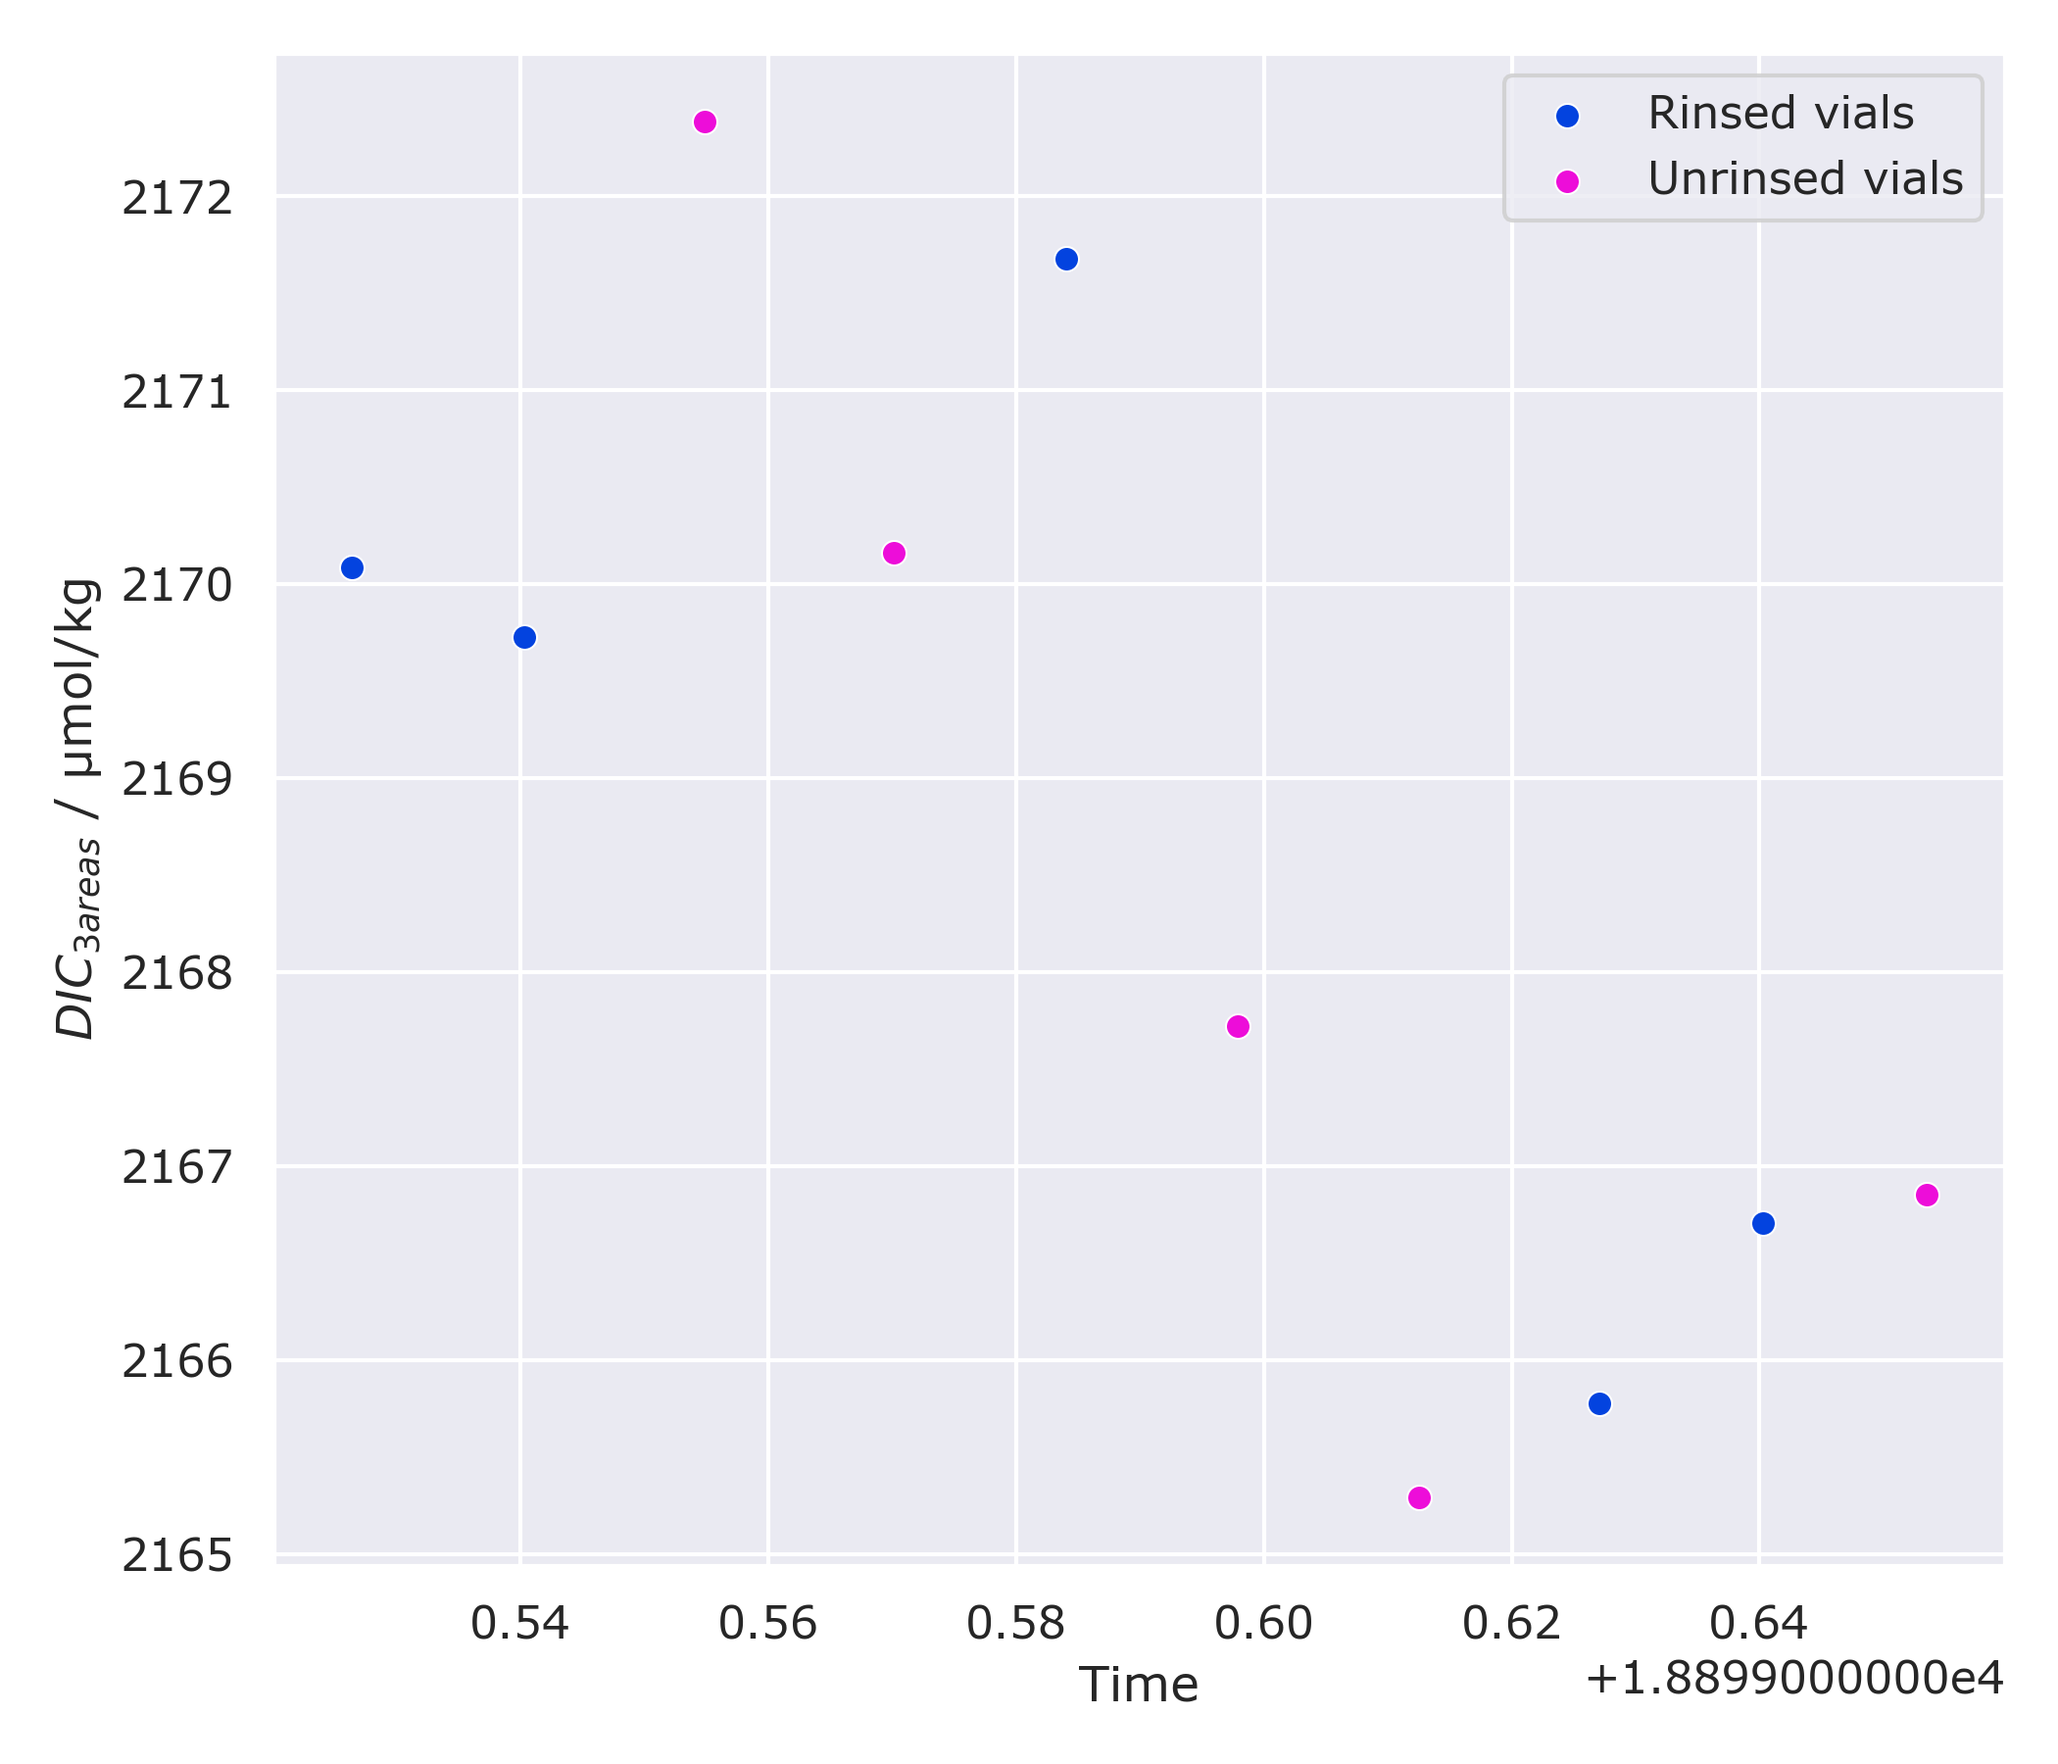
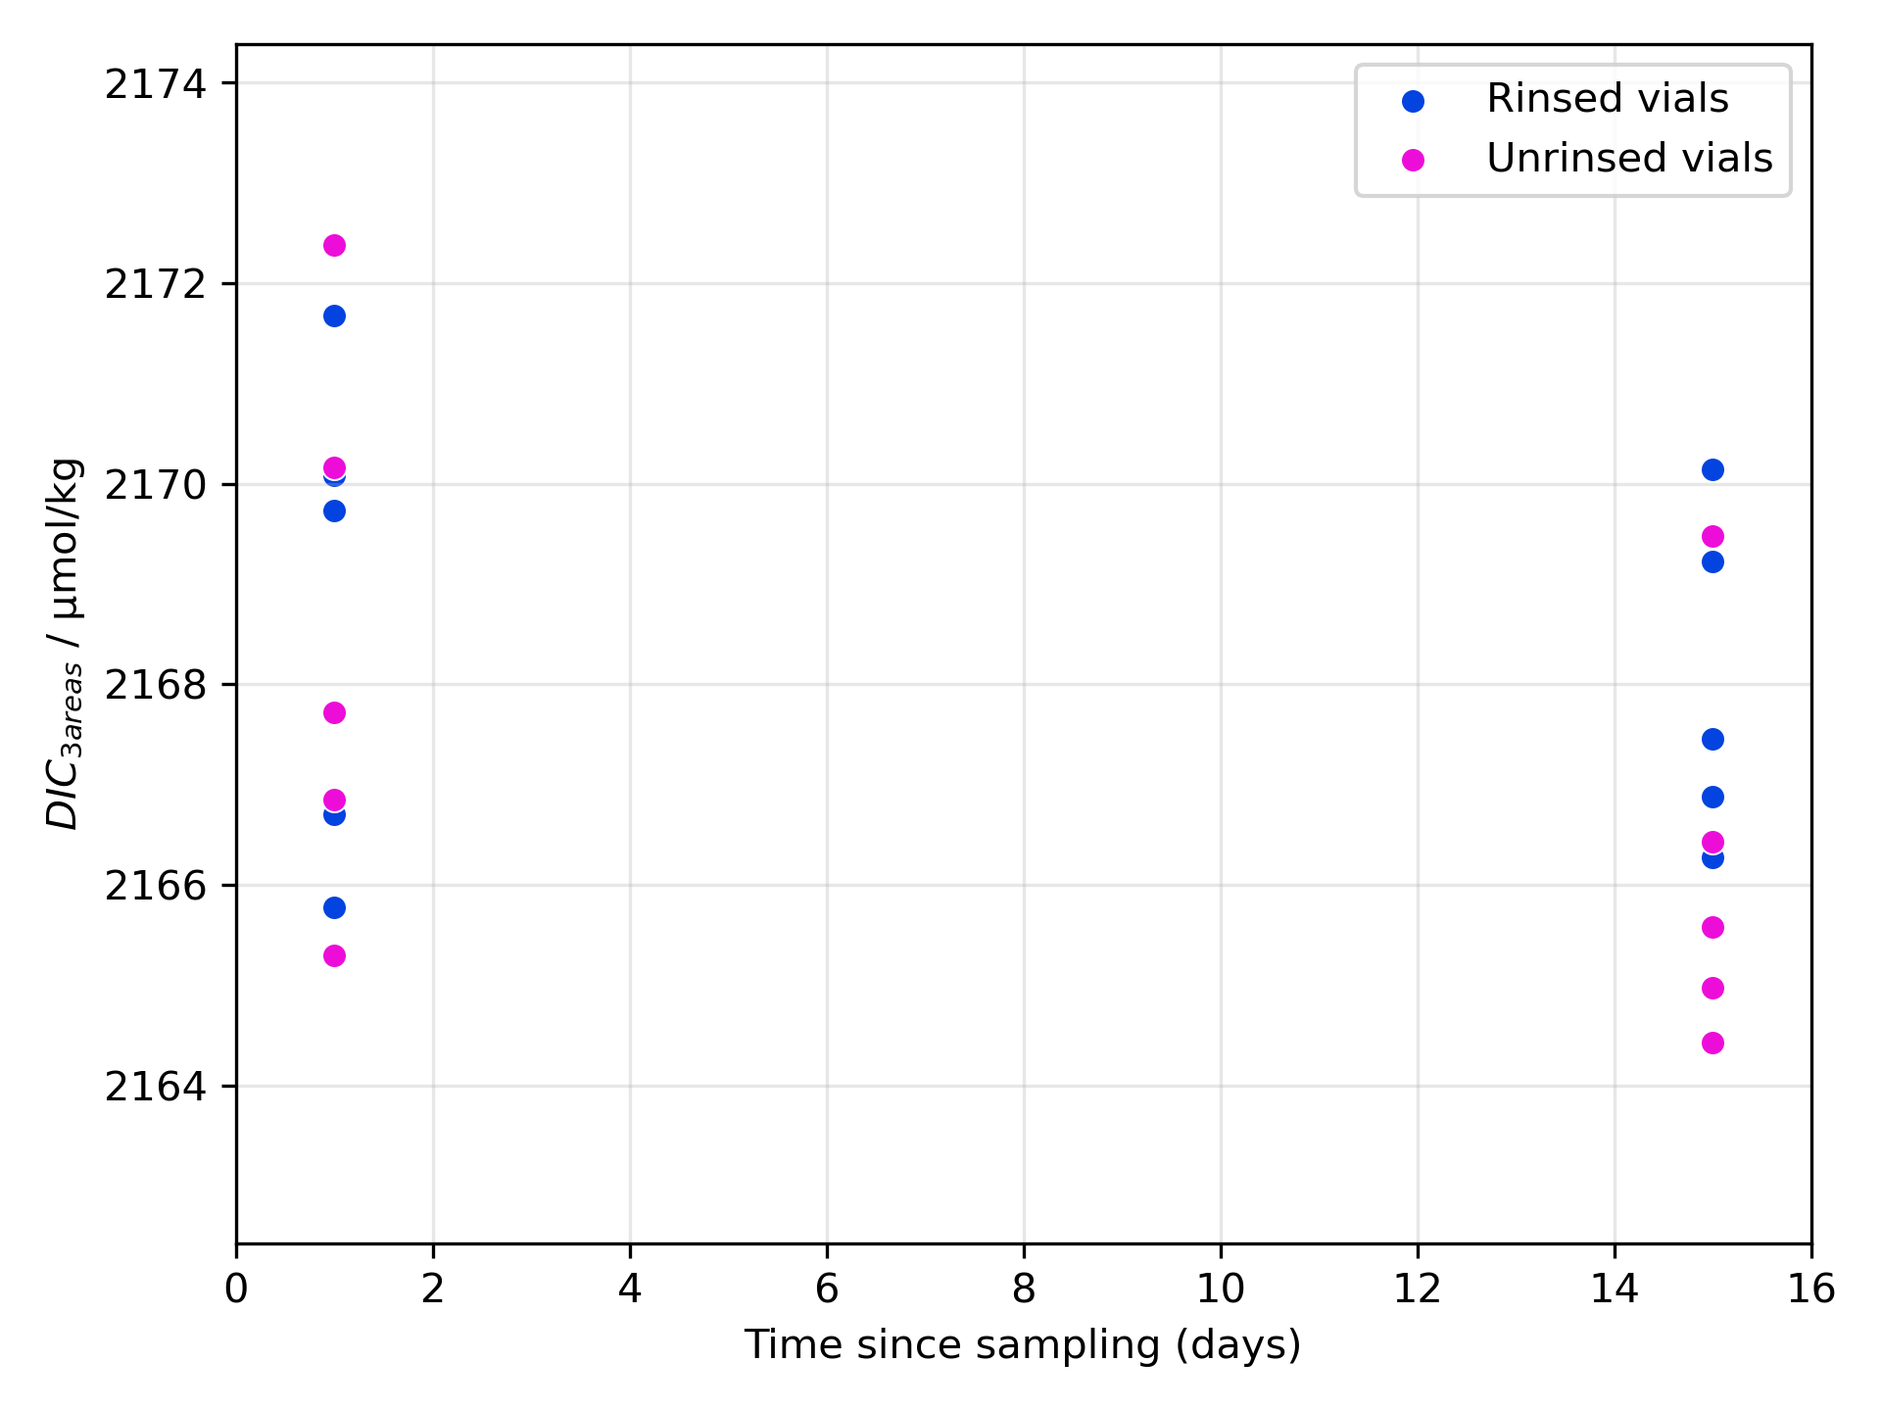
processed new dic data

diff --git a/airica/storage_test_process.py b/airica/storage_test_process.py
@@ -1,59 +1,96 @@
-import pandas as pd
-from fx_airica import process_airica
+import pandas as pd, numpy as np
+from fx_airica_koolstof import process_airica
 from scipy import stats
 import seaborn as sns
 from matplotlib import pyplot as plt
 
 # Import lab file
-db = pd.read_excel('./data/LD_storage_test/AIRICA_storage_test.xlsx',
+db = pd.read_excel('./data/LD_storage_test/AIRICA_storage_test_mod.xlsx',
                    na_values=-9999)
 
-# Only keep flag = 2
-L = db['flag'] == 2
-db = db[L]
+# Remove nan
+L = db['DIC'].isnull()
+db = db[~L]
 
 # Process AIRICA data
 results = process_airica(2009.48, 
                          db,
-                         './data/LD_storage_test/LD_storage_test.dbs',
+                         './data/LD_storage_test/LD_storage_test_mod.dbs',
                          './data/LD_storage_test/results_storage_test.csv'
                     )
 
 # === STATISTICS
-# Statistics on replicates
+# Statistics on all replicates
 L = results['name'].str.startswith(('R', 'U'))
-replicates = results[L]
-
-# Print standard error of the mean
-variable = 'TCO2_3'
-SE = stats.mstats.sem(replicates[variable], axis=None, ddof=0)
+SE = stats.mstats.sem(results['TCO2_3'][L], axis=None, ddof=0)
 print('Standard error of measurement for all replicates = {}'.format(SE))
 
-# Print standard error of the mean for R and U
-L = replicates['name'].str.startswith('R')
-rinsed = replicates[L]
-L = replicates['name'].str.startswith('U')
-unrinsed = replicates[L]
 
-SE_R = stats.mstats.sem(rinsed[variable], axis=None, ddof=0)
-print('Standard error of measurement for rinsed replicates = {}'.format(SE_R))
+# Create table to hold statistics for each analysis batch
+batches = list(results['analysis_batch'].unique())
+statistics = pd.DataFrame({"batch_number":batches})
+statistics['analysis_date'] = np.nan
+statistics['n_samples'] = np.nan
+statistics['mean_all'] = np.nan
+statistics['median_all'] = np.nan
+statistics['standard_error_batch'] = np.nan
+statistics['standard_error_all_batches'] = np.nan
+statistics['mean_R'] = np.nan
+statistics['median_R'] = np.nan
+statistics['standard_error_batch_R'] = np.nan
+statistics['standard_error_all_batches_R'] = np.nan
+statistics['mean_U'] = np.nan
+statistics['median_U'] = np.nan
+statistics['standard_error_batch_U'] = np.nan
+statistics['standard_error_all_batches_U'] = np.nan
 
-SE_U = stats.mstats.sem(unrinsed[variable], axis=None, ddof=0)
-print('Standard error of measurement for unrinsed replicates = {}'.format(SE_U))
+for batch in batches:
+    # Compute overall statistics
+    L = ((results['name'].str.startswith(('R', 'U'))) 
+         & (results['TCO2_3'].notnull())
+         & (results['analysis_batch']==batch))
+    statistics.loc[statistics['batch_number']==batch, 'analysis_date'] = results['datetime'][L].dt.date.iloc[0]
+    statistics.loc[statistics['batch_number']==batch, 'n_samples'] = results['TCO2_3'][L].count()
+    statistics.loc[statistics['batch_number']==batch, 'mean_all'] = results['TCO2_3'][L].mean()
+    statistics.loc[statistics['batch_number']==batch, 'median_all'] = results['TCO2_3'][L].median()
+    statistics.loc[statistics['batch_number']==batch, 'standard_error_batch'] = stats.mstats.sem(results['TCO2_3'][L], axis=None, ddof=0)
+    L = (results['name'].str.startswith(('R', 'U'))) & (results['TCO2_3'].notnull())
+    statistics.loc[statistics['batch_number']==batch, 'standard_error_all_batches'] = stats.mstats.sem(results['TCO2_3'][L], axis=None, ddof=0)
+    
+    # Compute statistics for R vs. U
+    # R
+    L = ((results['name'].str.startswith('R')) 
+         & (results['TCO2_3'].notnull())
+         & (results['analysis_batch']==batch))
+    statistics.loc[statistics['batch_number']==batch, 'mean_R'] = results['TCO2_3'][L].mean()
+    statistics.loc[statistics['batch_number']==batch, 'median_R'] = results['TCO2_3'][L].median()
+    statistics.loc[statistics['batch_number']==batch, 'standard_error_batch_R'] = stats.mstats.sem(results['TCO2_3'][L], axis=None, ddof=0)
+    L = (results['name'].str.startswith(('R'))) & (results['TCO2_3'].notnull())
+    statistics.loc[statistics['batch_number']==batch, 'standard_error_all_batches_R'] = stats.mstats.sem(results['TCO2_3'][L], axis=None, ddof=0)
+    
+    # U
+    L = ((results['name'].str.startswith('U')) 
+    & (results['TCO2_3'].notnull())
+    & (results['analysis_batch']==batch))
+    statistics.loc[statistics['batch_number']==batch, 'mean_U'] = results['TCO2_3'][L].mean()
+    statistics.loc[statistics['batch_number']==batch, 'median_U'] = results['TCO2_3'][L].median()
+    statistics.loc[statistics['batch_number']==batch, 'standard_error_batch_U'] = stats.mstats.sem(results['TCO2_3'][L], axis=None, ddof=0)
+    L = (results['name'].str.startswith(('U'))) & (results['TCO2_3'].notnull())
+    statistics.loc[statistics['batch_number']==batch, 'standard_error_all_batches_U'] = stats.mstats.sem(results['TCO2_3'][L], axis=None, ddof=0)
+
+# === TIME SINCE SAMPLING COLUMN
+results['time_since_sampling'] = np.nan
+start_date = pd.to_datetime('2021-09-28', format='%Y-%m-%d')
+results['time_since_sampling'] = (results['datetime'] - start_date).dt.days
 
 # === PLOT 4 AREAS
-# Prepare figure
-sns.set_style('darkgrid')
-sns.set_context('paper', font_scale=1)
-sns.set(font='Verdana', font_scale=1)
-
 # Create figure
-fig, ax = plt.subplots(dpi=300, figsize=(7, 6))
+fig, ax = plt.subplots(dpi=300)
 
 # Scatter rinsed samples in dark blue
 L = results['name'].str.startswith('R')
 sns.scatterplot(y='TCO2_4',
-                 x='datenum',
+                 x='time_since_sampling',
                  data=results[L],
                  color='xkcd:blue',
                  label='Rinsed vials',
@@ -64,7 +101,7 @@ sns.scatterplot(y='TCO2_4',
 # Scatter unrinsed samples in light blue
 L = results['name'].str.startswith('U')
 sns.scatterplot(y='TCO2_4',
-                 x='datenum',
+                 x='time_since_sampling',
                  data=results[L],
                  color='xkcd:fuchsia',
                  label='Unrinsed vials',
@@ -73,27 +110,31 @@ sns.scatterplot(y='TCO2_4',
                 )
 
 # Improve figure
-ax.set_ylabel('$DIC_{4 areas}$ / μmol/kg')
-ax.set_xlabel('Time')
+ymin = results['TCO2_4'][L].min() - 2
+ymax = results['TCO2_4'][L].max() + 2
+xmin = results['time_since_sampling'].min() - 1
+xmax = results['time_since_sampling'].max() + 1
+plt.xlim([xmin, xmax])
+plt.ylim([ymin, ymax])
 
+
+ax.set_ylabel('$DIC_{4 areas}$ / μmol/kg')
+ax.set_xlabel('Time since sampling (days)')
+
+ax.grid(alpha=0.3)
 plt.tight_layout()
 
 # Save plot
 plt.savefig('./figures/storage_test_DIC_4areas.png')
 
 # === PLOT 3 AREAS
-# Prepare figure
-sns.set_style('darkgrid')
-sns.set_context('paper', font_scale=1)
-sns.set(font='Verdana', font_scale=1)
-
 # Create figure
-fig, ax = plt.subplots(dpi=300, figsize=(7, 6))
+fig, ax = plt.subplots(dpi=300)
 
 # Scatter rinsed samples in dark blue
 L = results['name'].str.startswith('R')
 sns.scatterplot(y='TCO2_3',
-                 x='datenum',
+                 x='time_since_sampling',
                  data=results[L],
                  color='xkcd:blue',
                  label='Rinsed vials',
@@ -104,7 +145,7 @@ sns.scatterplot(y='TCO2_3',
 # Scatter unrinsed samples in light blue
 L = results['name'].str.startswith('U')
 sns.scatterplot(y='TCO2_3',
-                 x='datenum',
+                 x='time_since_sampling',
                  data=results[L],
                  color='xkcd:fuchsia',
                  label='Unrinsed vials', 
@@ -113,10 +154,17 @@ sns.scatterplot(y='TCO2_3',
                 )
 
 # Improve figure
-plt.legend()
-ax.set_ylabel('$DIC_{3 areas}$ / μmol/kg')
-ax.set_xlabel('Time')
+ymin = results['TCO2_3'][L].min() - 2
+ymax = results['TCO2_3'][L].max() + 2
+xmin = results['time_since_sampling'].min() - 1
+xmax = results['time_since_sampling'].max() + 1
+plt.xlim([xmin, xmax])
+plt.ylim([ymin, ymax])
 
+ax.set_ylabel('$DIC_{3 areas}$ / μmol/kg')
+ax.set_xlabel('Time since sampling (days)')
+
+ax.grid(alpha=0.3)
 plt.tight_layout()
 
 # Save plot

diff --git a/airica/fx_airica_koolstof.py b/airica/fx_airica_koolstof.py
@@ -1,0 +1,170 @@
+"""Import and parse the data files produced by the Marianda AIRICA."""
+
+import pandas as pd
+import numpy as np
+from matplotlib import dates as mdates
+from scipy import stats
+import seaborn as sns
+from calkulate.density import seawater_1atm_MP81
+import matplotlib.pyplot as plt
+
+
+# Extract data from dbs
+mapper_dbs = {
+    "run type": "run_type",
+    "i.s. temp.": "temperature_insitu",
+    "sample mass": "mass_sample",
+    "rep#": "rep",
+    "CT": "dic",
+    "factor CT": "dic_factor",
+    "CV (µmol)": "cv_micromol",
+    "CV (%)": "cv_percent",
+    "last CRM CT": "lastcrm_dic_measured",
+    "cert. CRM CT": "lastcrm_dic_certified",
+    "CRM batch": "lastcrm_batch",
+    "calc. mode": "mode_calculation",
+    "integ. mode": "mode_integration",
+    "Lat.": "latitude",
+    "Long.": "longitude",
+    "area#1": "area_1",
+    "area#2": "area_2",
+    "area#3": "area_3",
+    "area#4": "area_4",
+}
+
+
+def read_dbs(filepath_or_buffer, encoding="unicode_escape", na_values="none", **kwargs):
+    """Import the dbs file generated by a Marianda AIRICA as a pandas DataFrame.
+    All kwargs are passed to pandas.read_table.
+    """
+    dbs = pd.read_table(
+        filepath_or_buffer, encoding=encoding, na_values=na_values, **kwargs
+    )
+    dbs.rename(mapper=mapper_dbs, axis=1, inplace=True)
+    if "Unnamed: 32" in dbs:
+        dbs.drop(columns="Unnamed: 32", inplace=True)
+    dbs["datetime"] = pd.to_datetime(
+        dbs.apply(lambda x: " ".join((x.date, x.time)), axis=1)
+    )
+    dbs["datenum"] = mdates.date2num(dbs.datetime)
+    dbs["volume_sample"] = (dbs.mass_sample / dbs.density).round()  # microlitres
+    return dbs
+
+
+def process_airica(
+    crm_val,
+    db,
+    dbs_filepath,
+    results_file_path_and_name=None,
+    draw_figure=True,
+):
+    """Process AIRICA raw data by extracting data from .dbs file and
+    adding it to .xlsx file, calculating conversion factor from CRMs and
+    computing TCO2 values.
+    """
+
+    # Import ".dbs" file
+    dbs = read_dbs(dbs_filepath)
+
+    # Add ".dbs" data to ".xlsx"
+    db = pd.merge(left=db, right=dbs, how="left", left_on="name", right_on="bottle")
+    
+    # Drop useless columns
+    db = db.loc[:, ~db.columns.str.endswith('_y')]
+    db.columns = db.columns.str.replace('_x', '')
+
+    # Check that ".dbs" bottle = ".xlsx" name and drop "bottle" column
+    if db["name"].equals(db["bottle"]):
+        print("SUCCESSFUL DBS IMPORT")
+        db = db.drop(columns=["bottle"])
+    else:
+        KeyError
+        print("ERROR: mismatch between dbs and xlsx files. Please \
+              check pandas Series. ")
+        
+        mismatch = pd.DataFrame()
+        mismatch['dbs_name'] = dbs['bottle']
+        mismatch['db_name'] = db['name']
+        return mismatch
+    
+    # Recalculate density
+    db["density_analysis"] = np.nan
+    db["density_analysis"] = seawater_1atm_MP81(
+        temperature=db.temperature, salinity=db.salinity
+    )
+
+    # Average areas with all areas and only last 3 areas
+    db["area_av_4"] = (db.area_1 + db.area_2 + db.area_3 + db.area_4) / 4
+    db["area_av_3"] = (db.area_2 + db.area_3 + db.area_4) / 3
+
+    # Calculate DIC * density * sample_v
+    db["CT_d_sample_v"] = crm_val * db.density_analysis * db.sample_v
+
+    # Create columns to hold conversion factor (CF) values
+    db["a_3"] = np.nan
+    db["a_4"] = np.nan
+    db["b_3"] = np.nan
+    db["b_4"] = np.nan
+
+    # Calculate CRM coeff factor
+    def get_CF(db):
+        """Calculate conversion factor CF for each analysis batch."""
+        L = db.location == "CRM"
+        b_3, a_3 = stats.linregress(db.area_av_3[L], db.CT_d_sample_v[L])[:2]
+        b_4, a_4 = stats.linregress(db.area_av_3[L], db.CT_d_sample_v[L])[:2]
+        return pd.Series({"a_3": a_3, "a_4": a_4, "b_3": b_3, "b_4": b_4})
+
+    db_cf = db.groupby(by=["analysis_batch"]).apply(get_CF)
+
+    # Assign CRM a and b to samples based on analysis batch
+    db["a_3"] = db_cf.loc[db.analysis_batch.values, "a_3"].values
+    db["a_4"] = db_cf.loc[db.analysis_batch.values, "a_4"].values
+    db["b_3"] = db_cf.loc[db.analysis_batch.values, "b_3"].values
+    db["b_4"] = db_cf.loc[db.analysis_batch.values, "b_4"].values
+
+    # Calculate TCO2 values
+    db["TCO2_3"] = np.nan
+    db["TCO2_4"] = np.nan
+    db["TCO2_3"] = ((db.b_3 * db.area_av_3) + db.a_3) / (
+        db.density_analysis * db.sample_v
+    )
+    db["TCO2_4"] = ((db.b_4 * db.area_av_4) + db.a_4) / (
+        db.density_analysis * db.sample_v
+    )
+
+    if draw_figure:
+        # Plot linear regresion of CRM calibration
+        # Create figure
+        f, ax = plt.subplots(dpi=300)
+
+        # Scatter plot CRM data
+        L = db.location == "CRM"
+        sns.regplot(
+            x=db.area_av_3[L],
+            y=db.CT_d_sample_v[L],
+            ci=False,
+            color="xkcd:primary blue",
+        )
+
+        xmin = 15000 #db['area_av_3'].min()
+        xmax = 30000 #db['area_av_3'].max()
+        plt.xlim([xmin, xmax])
+
+        # Add R2^2 to graph
+        r2 = stats.linregress(db.area_av_3[L], db.CT_d_sample_v[L])[2]
+        r2s = str(round(r2, 2))
+        text = "$R^2$ = " + r2s
+        text_x = db.area_av_3.max()*0.75
+        text_y = db.CT_d_sample_v.max()*0.9
+        ax.text(text_x, text_y, text, horizontalalignment='left',
+            verticalalignment='center', fontsize=15)
+
+        # Improve figure
+        ax.grid(alpha=0.3)
+        plt.tight_layout()
+
+    # Save results as text file
+    if results_file_path_and_name is not None:
+        db.to_csv(results_file_path_and_name, index=None)
+
+    return db

diff --git a/airica/fx_airica.py b/airica/fx_airica.py
@@ -71,7 +71,8 @@ def read_dbs(filepath_or_buffer, encoding="unicode_escape", na_values="none", **
         filepath_or_buffer, encoding=encoding, na_values=na_values, **kwargs
     )
     dbs.rename(mapper=mapper_dbs, axis=1, inplace=True)
-    dbs.drop(columns="Unnamed: 32", inplace=True)
+    if 
+    # dbs.drop(columns="Unnamed: 32", inplace=True)
     dbs["datetime"] = pd.to_datetime(
         dbs.apply(lambda x: " ".join((x.date, x.time)), axis=1)
     )
